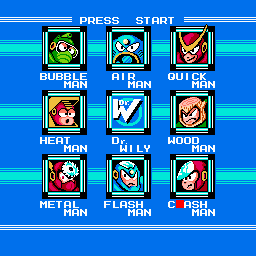
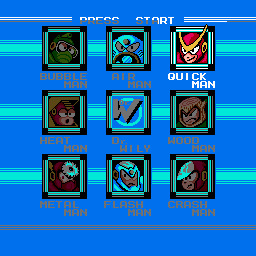
Dim unavailable bosses, fix CRASH MAN red block, skip intro on any input
- Darken non-available boss portraits in character select sprite
- Fix red square bug in CRASH MAN text (reconstruct R letter)
- Keep original sprite as CharacterSelect_original.png
- Allow any key or click to skip intro cinematic
- Prevent double-Enter bug on boss select

diff --git a/js/CharacterSelect.js b/js/CharacterSelect.js
@@ -52,8 +52,8 @@ class CharacterSelect extends Phaser.Scene
         });
         this.cameras.main.setBounds(0, 0, 256, 256);
         this.background = this.add.image(0,0,'CharacterSelect').setOrigin(0,0);
+        this.selecting = false;
         this.bgCursor = this.add.image(this.CursorPosition.x,this.CursorPosition.y,'CharacterSelectCursor').setOrigin(0,0);
-        //this.bossIntro = this.add.sprite(0,0,'QuickManIntro').setOrigin(0,0);
         this.flashTween = this.tweens.add({
             targets: this.bgCursor,
             alpha: 0,
@@ -67,11 +67,12 @@ class CharacterSelect extends Phaser.Scene
         });
 
         this.input.keyboard.on('keydown-ENTER', (event) => {
-            if (event.repeat) {
-                return; 
+            if (event.repeat || this.selecting) {
+                return;
             }
-        
+
             if (this.CursorPosition.x === 168 && this.CursorPosition.y === 24) {
+                this.selecting = true;
                 this.startBossAnim();
                 this.sound.play('confirm');
             }

diff --git a/js/MainMenu.js b/js/MainMenu.js
@@ -38,12 +38,14 @@ class MainMenu extends Phaser.Scene
         });
         this.cameras.main.setBounds(0, 0, 256, 256);
         
-        this.input.keyboard.on('keydown-ENTER', () => {
+        const skipIntro = () => {
             if (this.isInIntro) {
-                this.isInIntro = !this.isInIntro;
+                this.isInIntro = false;
                 this.skipped = true;
             }
-        });
+        };
+        this.input.keyboard.on('keydown', skipIntro);
+        this.input.on('pointerdown', skipIntro);
 
         this.input.keyboard.on('keydown-ENTER', () => {
             if (this.inMenu) {
